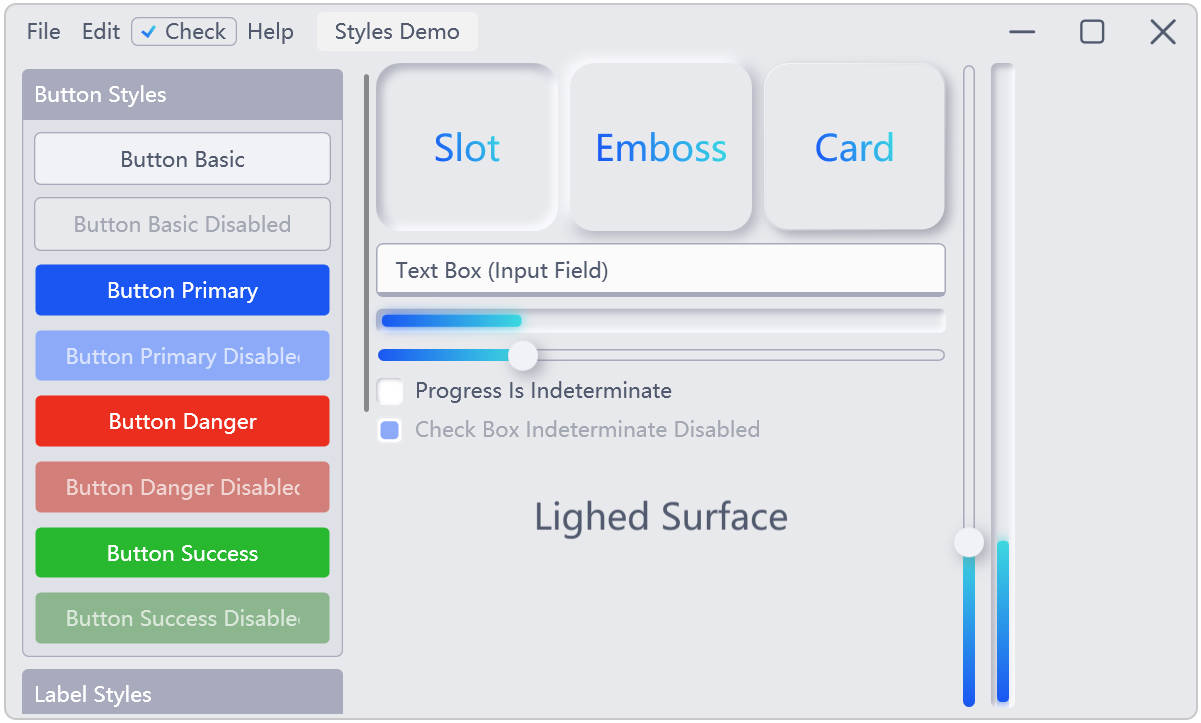
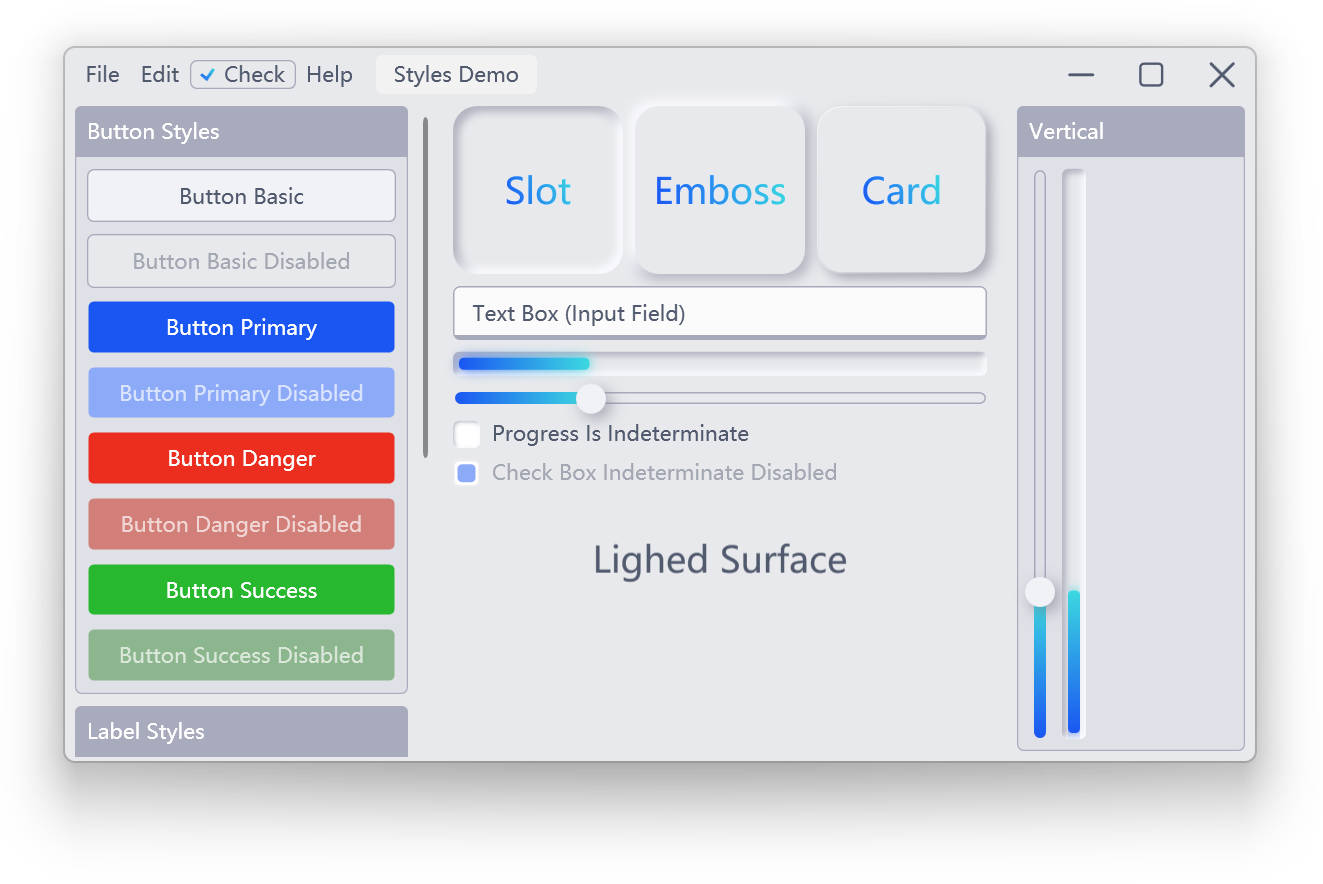
Update Demo Layout

diff --git a/SyminViewTest/StyleTestWindow.xaml b/SyminViewTest/StyleTestWindow.xaml
@@ -56,7 +56,7 @@
         </Grid.ColumnDefinitions>
 
         <ScrollViewer>
-            <StackPanel Orientation="Vertical" Margin="4">
+            <StackPanel Orientation="Vertical">
                 <GroupBox Header="Button Styles">
                     <StackPanel Orientation="Vertical">
                         <Button Content="Button Basic"/>
@@ -97,7 +97,7 @@
             </StackPanel>
         </ScrollViewer>
         
-        <StackPanel Orientation="Vertical" Grid.Column="1">
+        <StackPanel Orientation="Vertical" Grid.Column="1" Margin="12,0">
             <Grid Height="120" >
                 <Grid.ColumnDefinitions>
                     <ColumnDefinition Width="*"/>
@@ -131,12 +131,13 @@
                                  CornerRadius="16" Content="Lighed Surface" FontSize="24"/>
 
         </StackPanel>
-
-        <StackPanel Orientation="Horizontal" Grid.Column="2">
-            <Slider x:Name="progressVerticalSlider" Orientation="Vertical" 
+        <GroupBox Header="Vertical" Grid.Column="2">
+            <StackPanel Orientation="Horizontal" >
+                <Slider x:Name="progressVerticalSlider" Orientation="Vertical" 
                     Minimum="0" Maximum="100" Value="25"/>
-            <ProgressBar Orientation="Vertical" Minimum="0" Maximum="100"
+                <ProgressBar Orientation="Vertical" Minimum="0" Maximum="100"
                          Width="24" Value="{Binding ElementName=progressVerticalSlider,Path=Value}"/>
-        </StackPanel>
+            </StackPanel>
+        </GroupBox>
     </Grid>
 </Window>
